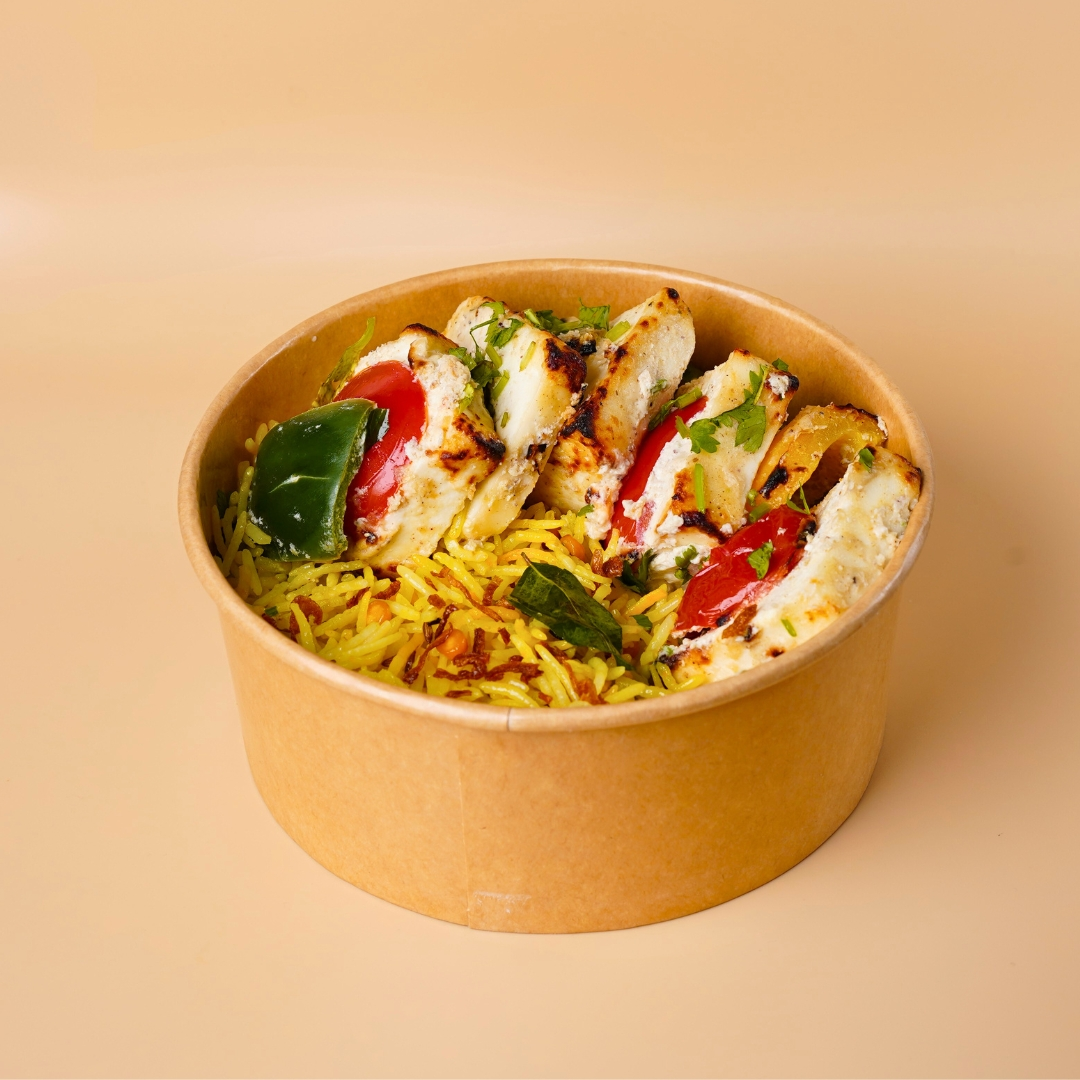
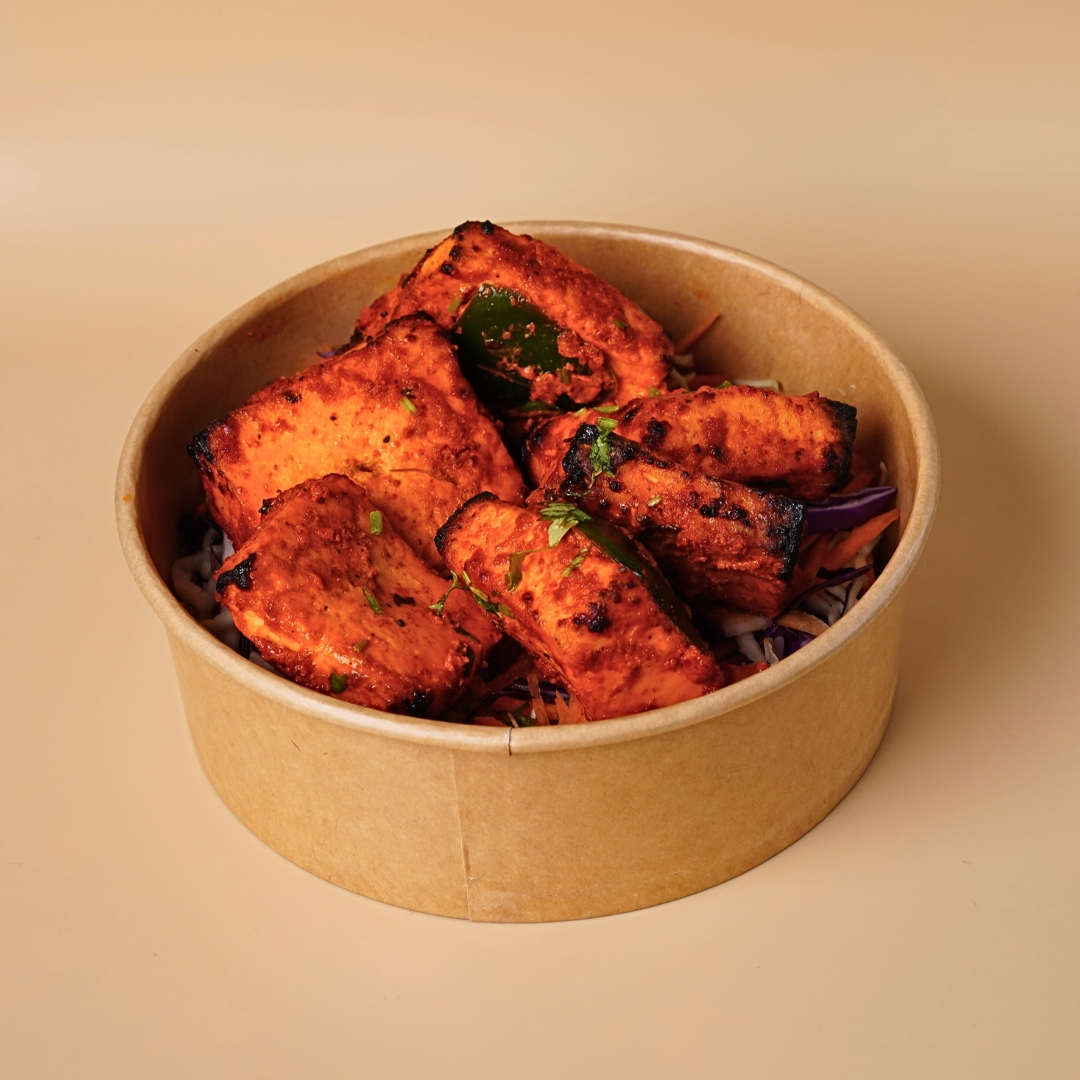
add forms

diff --git a/src/app/page.tsx b/src/app/page.tsx
@@ -371,7 +371,7 @@ export default function WelcomePage() {
                 />
               </span>
 
-              <span
+              {/* <span
                 style={{
                   fontFamily: "Montserrat",
                   fontWeight: 900,
@@ -381,7 +381,21 @@ export default function WelcomePage() {
                 }}
               >
                 T SUCK
-              </span>
+              </span> */}
+              <motion.p
+                variants={itemVariants}
+                className="text-[64px] leading-[78px] text-[#213c4c]"
+                style={{
+                  fontFamily: "Montserrat",
+                  fontWeight: 900,
+                  fontSize: "55px",
+                  color: "#213c4c;",
+                  textShadow:
+                    "-1px -1px 0 #fff, 1px -1px 0 #fff, -1px 1px 0 #fff, 1px 1px 0 #fff",
+                }}
+              >
+                T SUCK
+              </motion.p>
             </div>
           </motion.div>
         </div>
